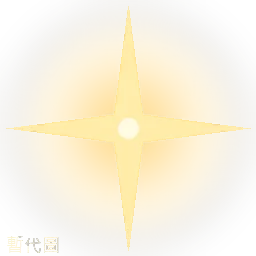
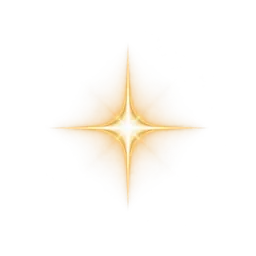
換上 Codex 星星與星空正式圖

diff --git a/css/book.css b/css/book.css
@@ -358,8 +358,9 @@ body {
   background: center / contain no-repeat;
   will-change: transform, opacity;
 }
-.op-star-a { background-image: var(--img-star-a), radial-gradient(circle, #fff6d8 0%, rgba(243, 220, 154, 0.8) 30%, rgba(243, 220, 154, 0) 65%); }
-.op-star-b { background-image: var(--img-star-b), radial-gradient(circle, #fffbe8 0%, rgba(243, 220, 154, 0.7) 35%, rgba(243, 220, 154, 0) 70%); }
+/* Codex 的正式星星圖本身就有光暈,不再墊漸層(墊了會太亮、變成一團) */
+.op-star-a { background-image: var(--img-star-a); }
+.op-star-b { background-image: var(--img-star-b); }
 /* === 開書動畫(結束) === */
 
 /* ---------- 減少動態 ---------- */
